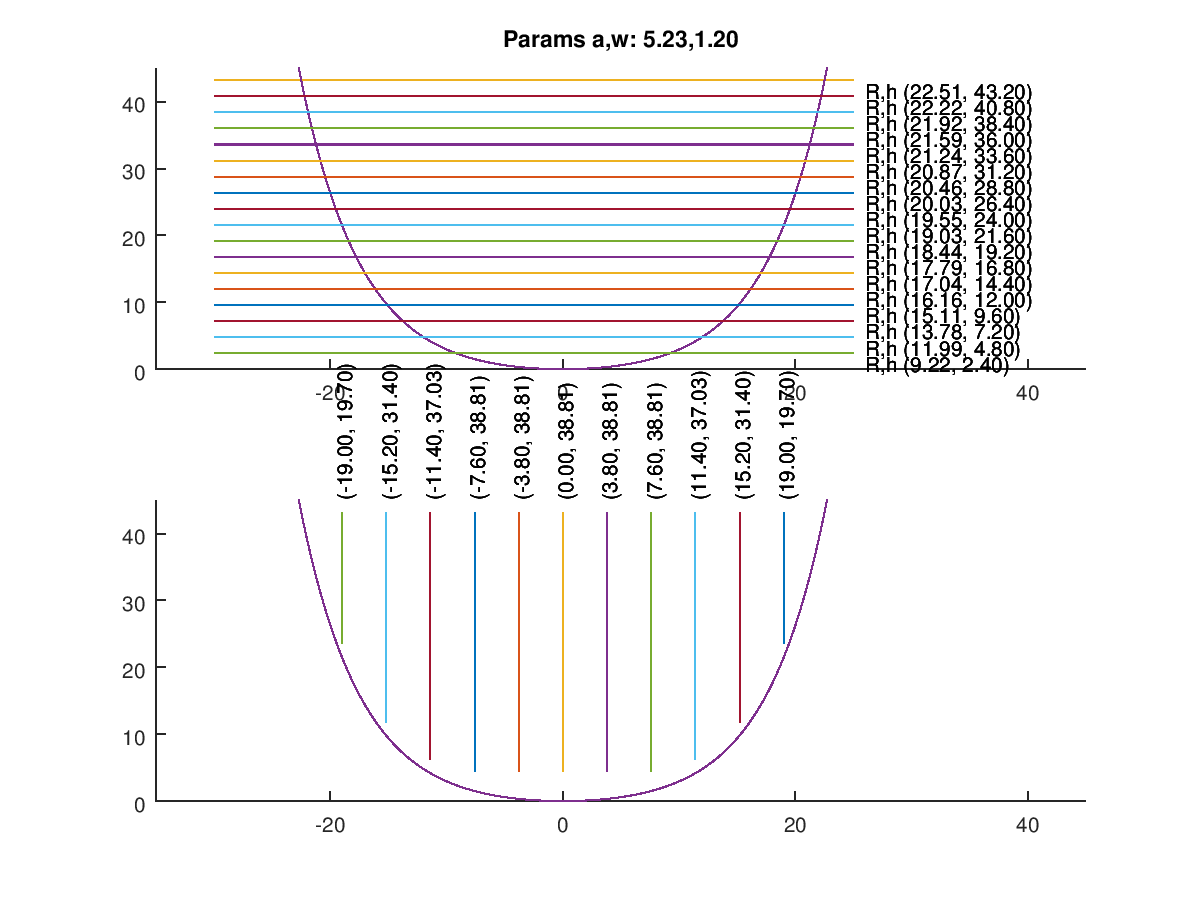
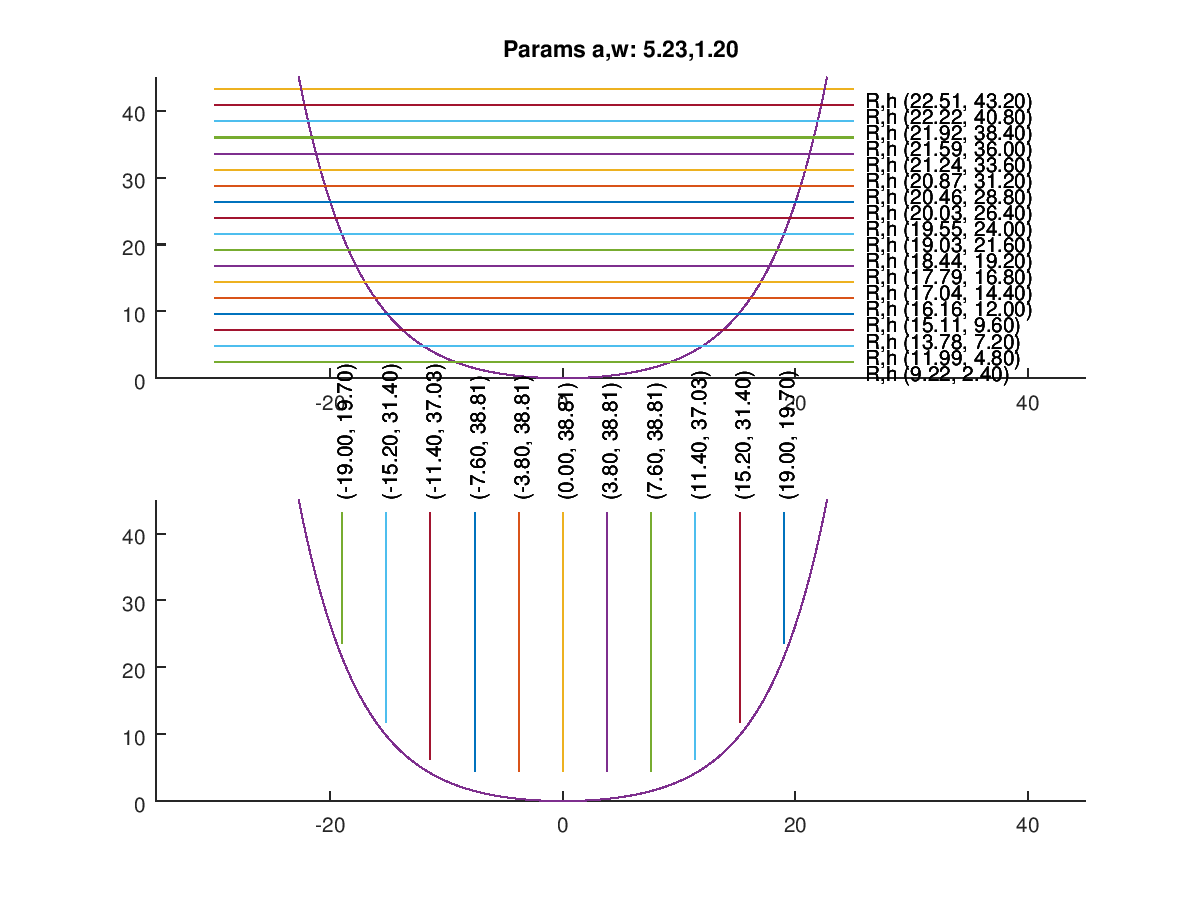
work in progress frames

diff --git a/Catenary3.m b/Catenary3.m
@@ -1,13 +1,10 @@
-# Dadant
-# top frame: 470 / 435 X 27
-# frame height: 37 to 27 X 300 X 6
-# |----|
-# |____|
 
- 
 % Prevent Octave from thinking that this
 % is a function file:
 1;
+clear all;
+
+############# Helper functions used in the program #####################
 
 function [a, b, c] = pitagora(a=0 ,b=0, c=0)
   # function that calculate triangle sides with pitagora
@@ -47,21 +44,15 @@ function result = find_y_in_matrix(mat,x)
     end
 end     
         
-# numeric search for the corresponding x for a given y in an 2 dim matrix
-function result = find_x_in_matrix(mat,y)
-  i = 3;
-    while (i <= rows(mat))
-      if (mat(i-1,2) < y && mat(i,2) >= y)
-        result =  mat(i,1);
-        break
-      endif  
-      i += 1;
-    end
-end         
-        
 
 
 
+####### 1 calculate the rings of the hive body  ####################
+# Dadant
+# top frame: 470 / 435 X 27
+# frame height: 37 to 27 X 300 X 6
+# |----|
+# |____|
 
 ## http://www.beginningbeekeeping.com/BeeFaqs.htm
 ## one bee has max 5/8 inch length = 1.58 cm
@@ -118,14 +109,13 @@ for a = 5.23
 
 end
 
-# plot frames positioning
+###### 2 Calculate frames positioning +  positioning ############################
 ax2 = subplot(2,1,2);
 hold on;
 plot(ax2, x,y);
 axis([-35 45 0 hive_height]);
 yend = 0;
 
-#Calculate the frame max height
 frames_height=[];
 
 # 3.8 cm distance between honeycombs
@@ -151,78 +141,93 @@ print(fig, sprintf("Catenary_a_w_%0.2f_%0.2f.jpg",a,w), '-dpng');
 hold off
 
 
+#### 3 Calculate the frames shapes ###############
 
-# plot distinct frames after rounding the values to 2 decimals
-
-n=1;
-shrink = 2;
 #selet the positiv values as the calculations are the same
-frames_height=frames_height(frames_height(:,2)>0,:);
+frames_height=frames_height(frames_height(:,2)>=0,:);
 
-# distinct frame shapes
-fig = figure(2);
-
-# iterate through each distinct frame raduis and calculate the frame dimensions and area
+# iterate through each distinct frame raduis (on top) and calculate the frame dimensions and area
 frames_sections = [];
+shrink_frame_width = 1.5;
+
 for i = length(frames_height):-1:1
   
   % find the circle bow length for each ring
   cur_frame_radius = frames_height(i,2);
   cur_frame_height = frames_height(i,1);
-  ring_index = length(rings) # ring from the top 
+  ring_index = length(rings); # ring from the top 
+  top_ring = ring_index;
 
   
   while (ring_index>1) 
     cur_ring_radius = rings(ring_index,1);
-    frame_section_tmp =2*  pitagora(a=0, b = cur_frame_radius, c = cur_ring_radius);
-
-    if cur_ring_radius - cur_frame_radius <0.5
+    
+    if cur_frame_radius == 0
+      frame_section_tmp = cur_ring_radius - shrink_frame_width;
+      
+    elseif cur_ring_radius - cur_frame_radius <0.5
+     # the frame exceeds the currrnt ring, we stop
       break
     else
-      # cur_frame_height, cur_frame_radius, cur_ring_radius, frame_section
-      frames_sections = [frames_sections, [frames_height(i,1), cur_frame_radius, cur_ring_radius, frame_section_tmp]];
-      ring_index -=1; 
+      frame_section_tmp =2*  pitagora(a=0, b = cur_frame_radius, c = cur_ring_radius)-shrink_frame_width;
     end
-
-   
-   
+    
+    # add data into a vector for later use
+    # structure: index of frame, cur_frame_height, cur_frame_radius, cur_ring_radius, frame_section
+    frames_sections = [frames_sections, [i, frames_height(i,1), cur_frame_radius, cur_ring_radius, frame_section_tmp]];
+    ring_index -=1; 
   end
 end  
 
+# reshape the vection in a matrix with 5 colmns and n rows
+frames = transpose(reshape(frames_sections, 5 , length(frames_sections)/5));
 
-frames = transpose(reshape(frames_sections, 4 , length(frames_sections)/4));
+#round values to one decimal to nearest (mm)
+n=2;
+frames = round(frames*10^n)/10^n;
+#the hive height
+hive_height = rings(length(rings),2);
 
+# plot distinct frames after rounding the values to 2 decimals
+unique_frames =  unique(frames(:,1));
+for i =1:length(unique_frames)
 
-%{
+  cur_frame = frames(frames(:,1)==i,:)
+  cur_frame_height = cur_frame(1,2);
+  cur_frame_maxwidth = cur_frame(1,5);
+  
   # one plot for each frame, 
-  ax3 = subplot(1,length(frames_height),i);
+  
+# distinct frame shapes
+  fig = figure(i+1);
+  axis([-35 35 0  cur_frame(1,2)]);
+  title(sprintf("Frame no: %0.0f, w: %0.1f, h: %0.1f",i,cur_frame_maxwidth,cur_frame_height));
   hold on;
-  axis([-25 25 0 frames_height(i)]);
-  title(sprintf("Frame size: %0.1f",frames_height(i)));
-
-  yend = frames_height(i);
-  # draw the current frame height 
-  line(ax3,[0 0], [0 frames_height(i)]);
+  
+  # draw the current frame (wip)
+  ## draw  vertical line from 0 to height
+  line([0 0], [0 cur_frame_height]);
 
   # plot frame sections for each ring paralel to the hive side
   xtmp = [];
   ytmp = [];
-  yadjfactor = ystart - frames_height(i);  % we want to plot from y=0 by subtracting yadjfactor
+  yadjfactor = hive_height - cur_frame_height;  % we want to plot from y=0 by subtracting yadjfactor
   
-  for cur_y = ystart - frames_height(i):wood_width:ystart
-    
-    tmp_x = find_x_in_matrix(C,cur_y);
-    tmp_y = cur_y - yadjfactor; 
+  # pass through each ring, skip the 1st one (as we place antivarroa bottom there)
+  cur_ring=length(cur_frame);
+  for tmp_y = 2*wood_width:wood_width:hive_height-yadjfactor
+    tmp_x = cur_frame(cur_ring,5);
    
     ytmp = [ytmp tmp_y];
     xtmp = [xtmp tmp_x]; # we make the frame a little smaller, by "shrink" cm
     
     
     text( tmp_x,  tmp_y, sprintf("(%0.2f, %0.2f)",tmp_x, tmp_y));
+    cur_ring-=1;
   end 
   #plot points after adjusting the size by shrink param
-  plot(ax3,xtmp,ytmp);
-  plot(ax3,-xtmp,ytmp);  
+  plot(xtmp,ytmp);
+  plot(-xtmp,ytmp);  
   
-%}
 
+end
